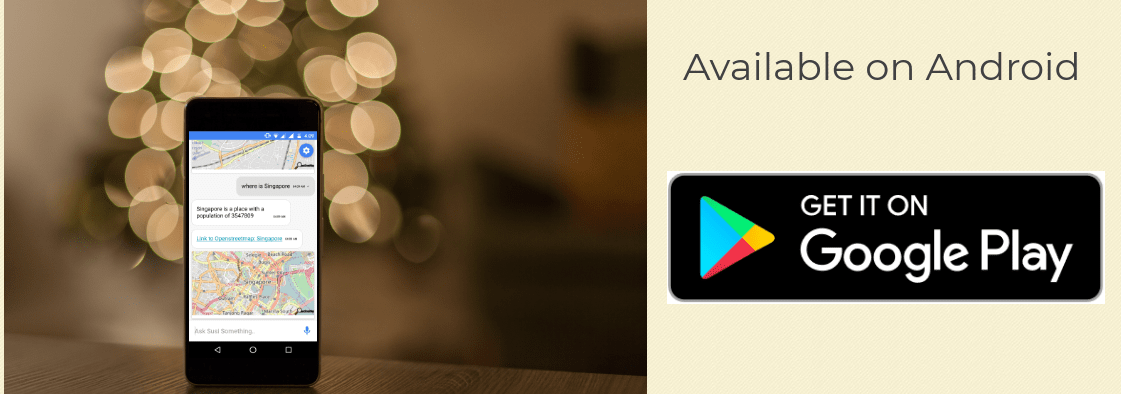
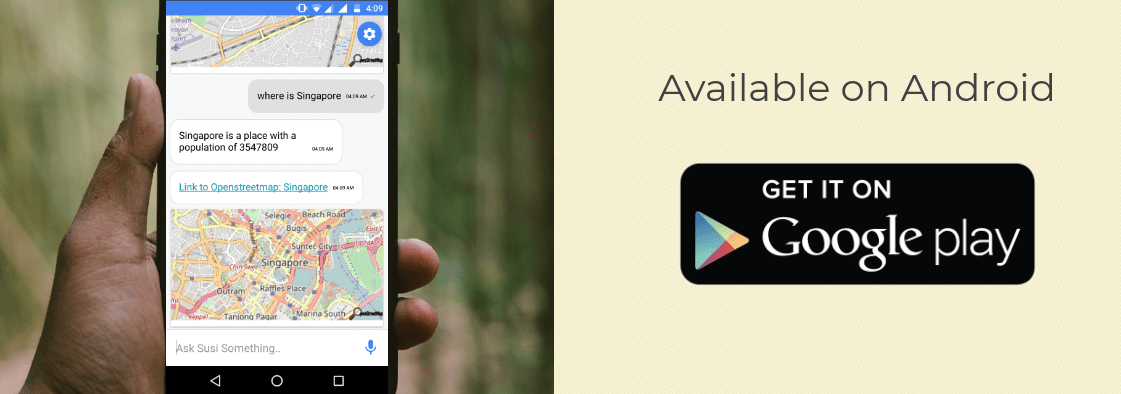
Fix link in slideshow, increase mobile image #2474

diff --git a/src/components/cms/SkillSlideshow/constants.js b/src/components/cms/SkillSlideshow/constants.js
@@ -3,7 +3,7 @@ import susiandroid from '../../../images/susi-android.png';
 import susilocalmachine from '../../../images/susi-local-machine.png';
 
 const SLIDES = [
-  { image: raspberrypi, path: '/about/devices' },
+  { image: raspberrypi, path: '/devices' },
   {
     image: susiandroid,
     url: 'https://play.google.com/store/apps/details?id=ai.susi',
